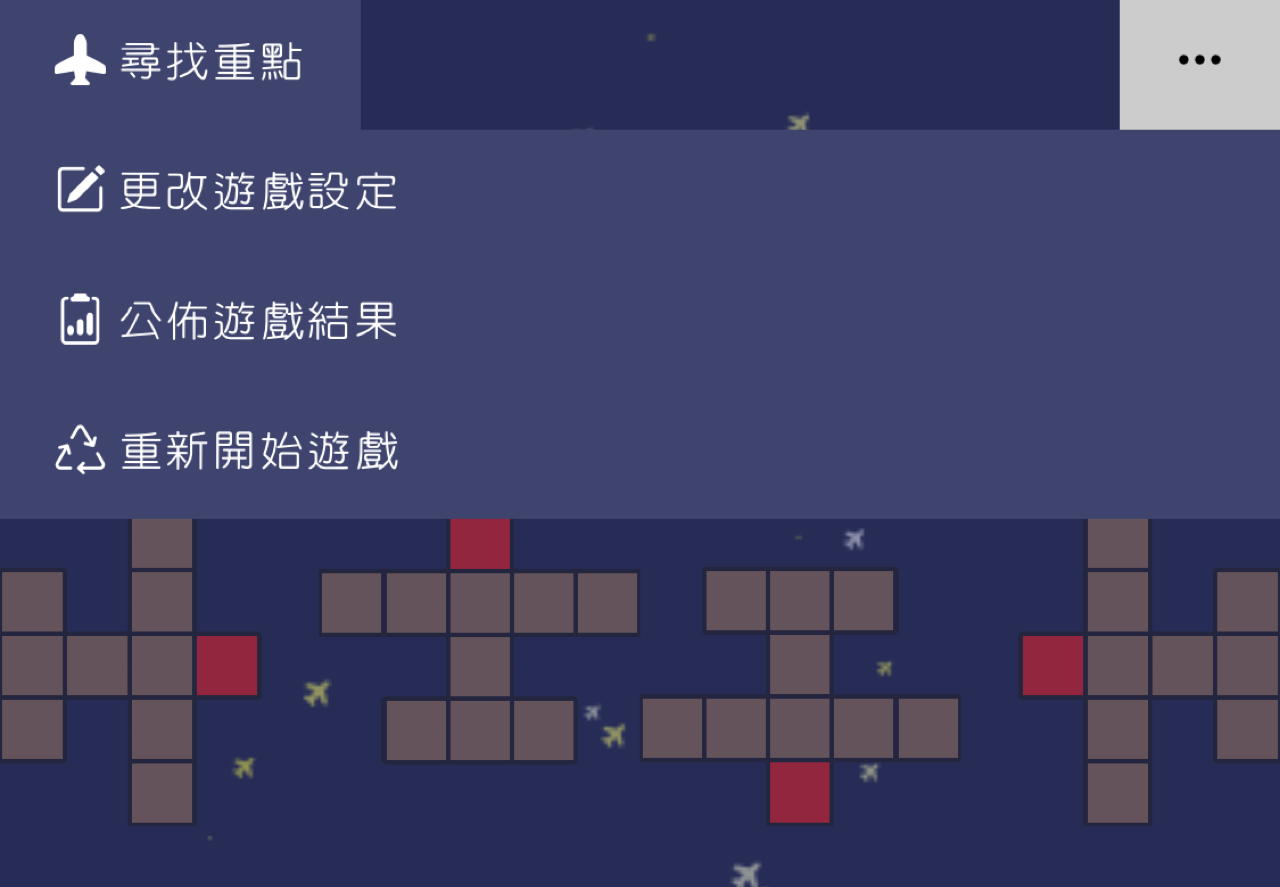
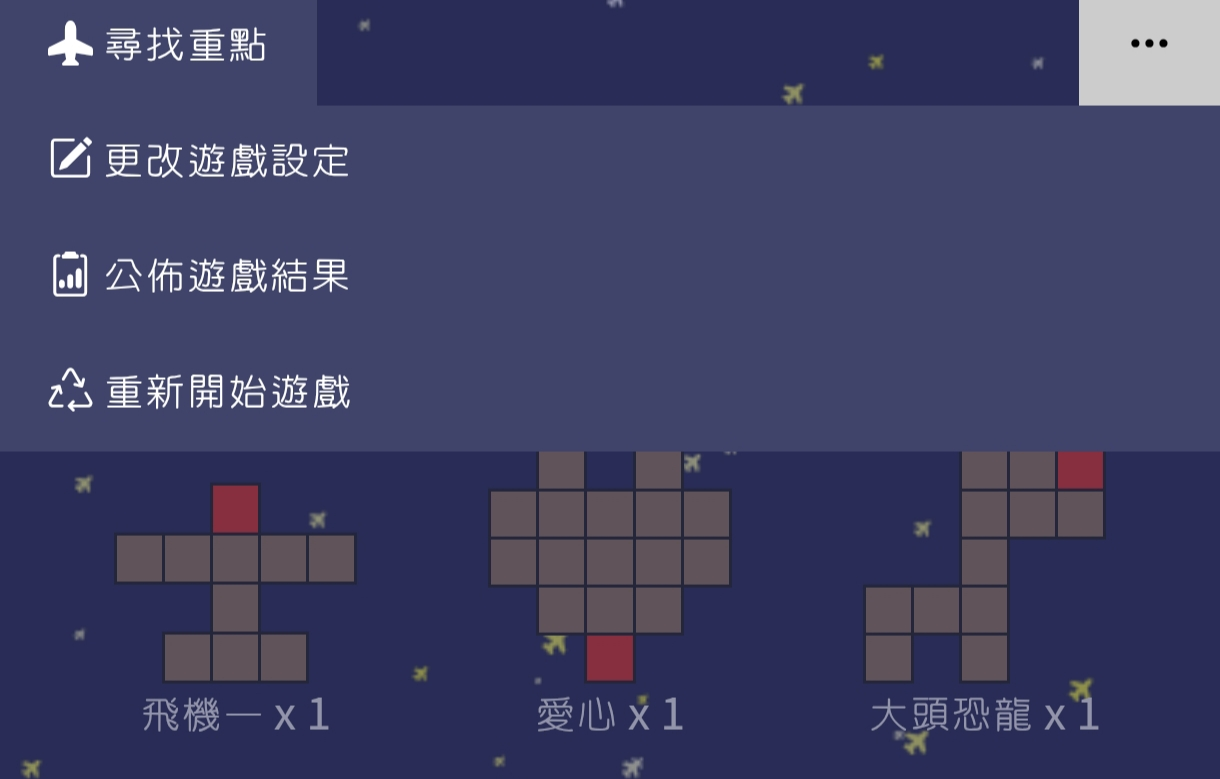
update

diff --git a/js/Definition.js b/js/Definition.js
@@ -63,9 +63,11 @@ const screenInstruction = [
   },
   {
     id: 3,
-    text: "<i class='bi bi-1-square'></i> 選擇圖案款式</br>" +
-      "<i class='bi bi-2-square'></i> 設定棋盤大小</br>" +
-      "<i class='bi bi-3-square'></i> 設定模型數量</br>",
+    text: "<i class='bi bi-1-square'></i>  選擇遊戲途中是否以不同顏色顯示圖案</br>" +
+    "<img id='airplaneSameColorPng' src='./image/AirplaneSameColor.png' alt='airplaneSameColorPng' width='"+setScreenWidth*0.1+"'>或" +
+    "<img id='airplaneDiffColorPng' src='./image/AirplaneDiffColor.png' alt='airplaneDiffColorPng' width='"+setScreenWidth*0.1+"'></br>" +
+      "<i class='bi bi-2-square'></i> 選擇圖案及其數量</br>" +
+      "<i class='bi bi-3-square'></i> 設定遊戲棋盤大小</br>",
     img: "./image/ScreenSetting.png"
 	}
 ];

diff --git a/index.html b/index.html
@@ -114,8 +114,7 @@
     </div>
     <div class="PopupDialog_Content w3-container w3-medium">
       <div class="w3-center" style="margin-bottom: 10px;">
-        玩家可設定棋盤大小，圖案款式及數量。</br>
-        注意：圖案數量不得多於棋盤的三分之一。
+        設定棋盤大小，圖案款式及數量
       </div>
       <div class="contentInputSection">
         <div>
